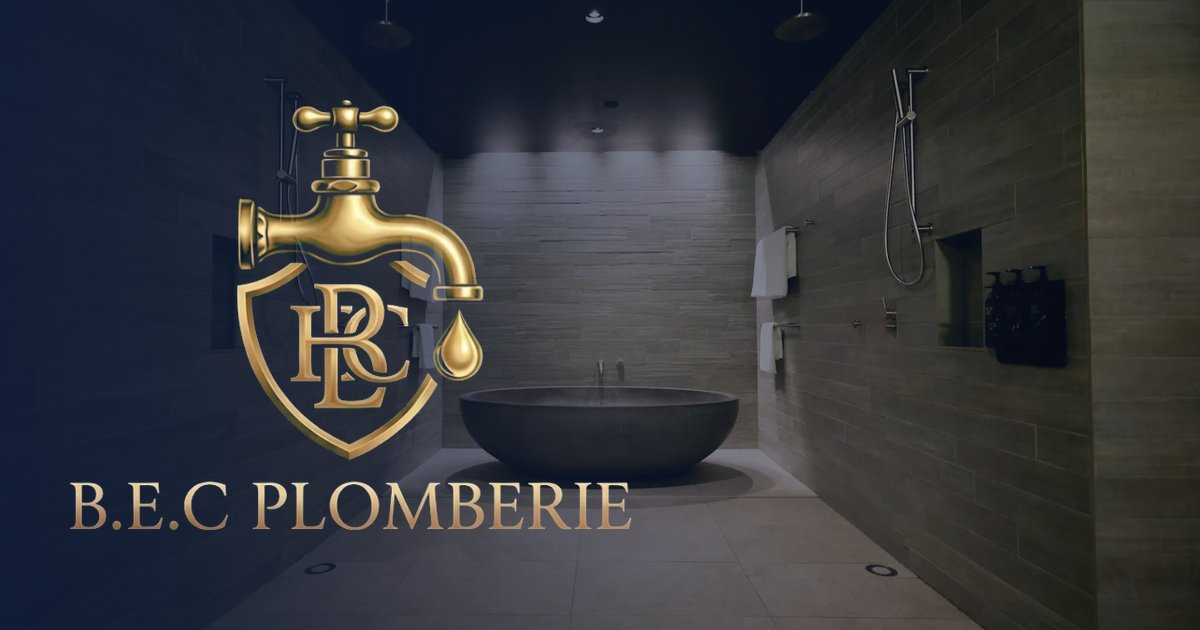
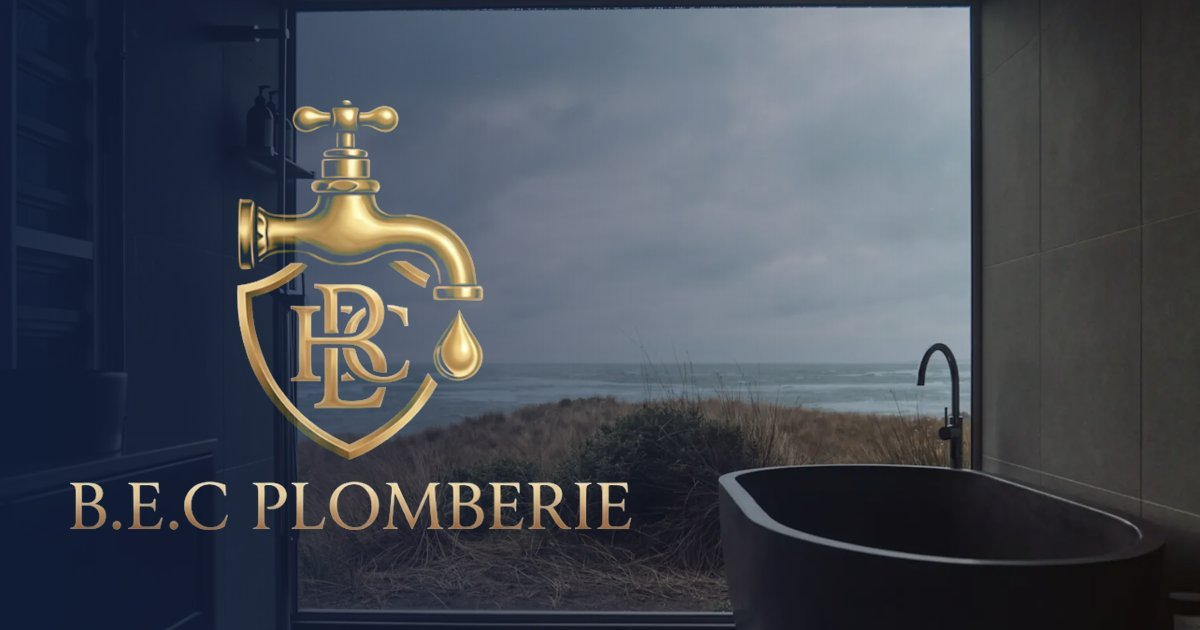
Hero plus design en plein écran, prestation haut de gamme
Nouvelle photo de salle de bain (pierre sombre, baignoire îlot), hero à la
hauteur de l'écran, texte d'intro retiré, carte « Installation haut de gamme »
ajoutée en tête des prestations (FR/EN).

Claude-Session: https://claude.ai/code/session_01Gu47y4bVu5wzDqTyW9pXca

diff --git a/index.html b/index.html
@@ -50,6 +50,7 @@
     "@type": "OfferCatalog",
     "name": "Prestations",
     "itemListElement": [
+      { "@type": "Offer", "itemOffered": { "@type": "Service", "name": "Installation haut de gamme : douches, toilettes, salles de bain complètes" } },
       { "@type": "Offer", "itemOffered": { "@type": "Service", "name": "Dépannage et travaux de plomberie" } },
       { "@type": "Offer", "itemOffered": { "@type": "Service", "name": "Débouchage de canalisations" } },
       { "@type": "Offer", "itemOffered": { "@type": "Service", "name": "Remplacement de chauffe-eau et cumulus" } },
@@ -89,7 +90,6 @@
     <div class="wrap hero-grid">
       <div class="hero-text">
         <h1 id="titre">Votre plombier <span>à Villeneuve-Loubet</span></h1>
-        <p class="lead">Dépannage plomberie, débouchage, remplacement de chauffe-eau et cumulus, pose et entretien de climatisation. Un artisan ponctuel, soigneux et de bon conseil.</p>
         <div class="hero-actions">
           <a class="btn btn-call" href="tel:+33749656885">
             <svg viewBox="0 0 24 24" fill="currentColor" aria-hidden="true"><path d="M6.6 10.8a15.1 15.1 0 0 0 6.6 6.6l2.2-2.2c.3-.3.7-.4 1-.2 1.1.4 2.3.6 3.6.6.6 0 1 .4 1 1V20c0 .6-.4 1-1 1A17 17 0 0 1 3 4c0-.6.4-1 1-1h3.5c.6 0 1 .4 1 1 0 1.3.2 2.5.6 3.6.1.3 0 .7-.2 1l-2.3 2.2z"/></svg>
@@ -114,6 +114,14 @@
         <p class="lead">Particuliers et professionnels, à Villeneuve-Loubet et aux alentours.</p>
       </div>
       <div class="services">
+        <article class="service service-featured">
+          <svg class="service-icon" viewBox="0 0 48 48" fill="none" stroke="currentColor" stroke-width="3" stroke-linecap="round" stroke-linejoin="round" aria-hidden="true"><path d="M4 26h40v4a10 10 0 0 1-10 10H14A10 10 0 0 1 4 30z"/><path d="M10 26V10a4 4 0 0 1 8 0"/><path d="M18 14l-2 3"/><path d="M14 40l-2 4M34 40l2 4"/></svg>
+          <div>
+            <p class="service-tag">Haut de gamme</p>
+            <h3>Installation de salles de bain</h3>
+            <p>Douches à l'italienne, toilettes suspendues, salles de bain complètes : de la plomberie à la pose des équipements, une installation soignée et durable.</p>
+          </div>
+        </article>
         <article class="service">
           <svg class="service-icon" viewBox="0 0 48 48" fill="none" stroke="currentColor" stroke-width="3" stroke-linecap="round" stroke-linejoin="round" aria-hidden="true"><path d="M6 14h14v8h14a6 6 0 0 1 6 6v6"/><path d="M6 10v8"/><path d="M36 40h8"/><path d="M40 34v6"/></svg>
           <h3>Plomberie</h3>

diff --git a/en/index.html b/en/index.html
@@ -50,6 +50,7 @@
     "@type": "OfferCatalog",
     "name": "Services",
     "itemListElement": [
+      { "@type": "Offer", "itemOffered": { "@type": "Service", "name": "High-end installation: showers, toilets, complete bathrooms" } },
       { "@type": "Offer", "itemOffered": { "@type": "Service", "name": "Plumbing repairs and installation" } },
       { "@type": "Offer", "itemOffered": { "@type": "Service", "name": "Drain unblocking" } },
       { "@type": "Offer", "itemOffered": { "@type": "Service", "name": "Water heater replacement" } },
@@ -89,7 +90,6 @@
     <div class="wrap hero-grid">
       <div class="hero-text">
         <h1 id="titre">Your plumber <span>in Villeneuve-Loubet</span></h1>
-        <p class="lead">Plumbing repairs, drain unblocking, water heater replacement, air conditioning installation and servicing. A punctual, careful local tradesman who gives sound advice.</p>
         <div class="hero-actions">
           <a class="btn btn-call" href="tel:+33749656885">
             <svg viewBox="0 0 24 24" fill="currentColor" aria-hidden="true"><path d="M6.6 10.8a15.1 15.1 0 0 0 6.6 6.6l2.2-2.2c.3-.3.7-.4 1-.2 1.1.4 2.3.6 3.6.6.6 0 1 .4 1 1V20c0 .6-.4 1-1 1A17 17 0 0 1 3 4c0-.6.4-1 1-1h3.5c.6 0 1 .4 1 1 0 1.3.2 2.5.6 3.6.1.3 0 .7-.2 1l-2.3 2.2z"/></svg>
@@ -114,6 +114,14 @@
         <p class="lead">Homes and businesses in Villeneuve-Loubet and the surrounding area.</p>
       </div>
       <div class="services">
+        <article class="service service-featured">
+          <svg class="service-icon" viewBox="0 0 48 48" fill="none" stroke="currentColor" stroke-width="3" stroke-linecap="round" stroke-linejoin="round" aria-hidden="true"><path d="M4 26h40v4a10 10 0 0 1-10 10H14A10 10 0 0 1 4 30z"/><path d="M10 26V10a4 4 0 0 1 8 0"/><path d="M18 14l-2 3"/><path d="M14 40l-2 4M34 40l2 4"/></svg>
+          <div>
+            <p class="service-tag">High-end</p>
+            <h3>Bathroom installation</h3>
+            <p>Walk-in showers, wall-hung toilets, complete bathrooms: from the plumbing to fitting the fixtures, careful, long-lasting work.</p>
+          </div>
+        </article>
         <article class="service">
           <svg class="service-icon" viewBox="0 0 48 48" fill="none" stroke="currentColor" stroke-width="3" stroke-linecap="round" stroke-linejoin="round" aria-hidden="true"><path d="M6 14h14v8h14a6 6 0 0 1 6 6v6"/><path d="M6 10v8"/><path d="M36 40h8"/><path d="M40 34v6"/></svg>
           <h3>Plumbing</h3>

diff --git a/styles.css b/styles.css
@@ -133,10 +133,14 @@ body::before {
       url("/img/hero-salle-de-bain.webp");
   }
 }
-.hero-grid { display: grid; padding-block: clamp(3rem, 9vw, 6rem); }
+/* Hero plein écran : hauteur de l'écran moins l'en-tête (et la barre d'appel sur mobile) */
+.hero { display: grid; align-items: center; min-height: calc(100vh - 4rem - 1px - 4.5rem); min-height: calc(100svh - 4rem - 1px - 4.5rem - env(safe-area-inset-bottom, 0px)); }
+@media (min-width: 900px) { .hero { min-height: calc(100vh - 4rem - 1px); min-height: calc(100svh - 4rem - 1px); } }
+.hero-grid { display: grid; padding-block: clamp(2.5rem, 7vw, 5rem); width: 100%; }
 .hero-text { max-width: 40rem; }
 .hero h1 { font-size: clamp(2.6rem, 8vw, 4.6rem); font-weight: 800; text-transform: uppercase; letter-spacing: .005em; color: #fff; }
 .hero h1 span { color: var(--gold-light); display: block; }
+.hero h1 + .hero-actions { margin-top: 2rem; }
 .hero .lead { margin-top: 1rem; max-width: 34rem; color: #e9ecf3; }
 .hero-actions { display: flex; flex-wrap: wrap; gap: .75rem; margin-top: 1.75rem; }
 .btn-light { color: #fff; }
@@ -186,6 +190,12 @@ body::before {
   padding: 1.5rem; display: grid; gap: .6rem; align-content: start;
 }
 .service-icon { width: 2.75rem; height: 2.75rem; color: var(--sky); }
+.service-featured { grid-column: 1 / -1; background: var(--navy); color: #fff; border-color: var(--navy); border-top-color: var(--gold); }
+.service-featured .service-icon { color: var(--gold); width: 3.25rem; height: 3.25rem; }
+.service.service-featured p { color: #d6dbe6; }
+.service-featured h3 { font-size: 1.75rem; }
+.service-featured .service-tag { font-family: var(--font-display); font-weight: 600; text-transform: uppercase; letter-spacing: .12em; color: var(--gold-light); margin-bottom: .2rem; }
+@media (min-width: 640px) { .service-featured { grid-template-columns: auto 1fr; gap: 1.25rem; align-items: start; padding: 1.75rem 2rem; } }
 .service p { color: var(--muted); }
 
 /* Atouts */

diff --git a/CLAUDE.md b/CLAUDE.md
@@ -19,7 +19,7 @@ Fiche Google : 5,0 / 5, 23 avis (novembre 2026). Points forts cités dans les av
 - Mentions légales, Politique de confidentialité, 404
 
 ## Contenus
-- 4 services : Plomberie, Débouchage, Chauffe-eau et cumulus, Climatisation. Liste détaillée des prestations [À CONFIRMER avec le client].
+- Prestation mise en avant (carte bleu nuit pleine largeur) : « Installation haut de gamme » de salles de bain (douches à l'italienne, toilettes suspendues, salles de bain complètes). Puis 4 services : Plomberie, Débouchage, Chauffe-eau et cumulus, Climatisation. Liste détaillée des prestations [À CONFIRMER avec le client].
 - Avis : 6 extraits réels de la fiche Google, signés prénom + initiale (Teo D., M. B., Florian G., Sagdana, Léo F., Anis). Ne pas modifier le sens.
 - Ne rien inventer : pas de certifications, pas de prix, pas d'historique, pas de « 24h/24 ».
 - Placeholders à remplacer : SIRET, clé Web3Forms.
@@ -40,7 +40,7 @@ Pas d'iframe Google Maps (cookies) : lien « Itinéraire » vers Google Maps à 
 Couleurs du logo client : bleu nuit (#101D3B) et doré (#C9A66B, doré foncé #7F5F26 pour le texte sur blanc), blanc pour respirer. **Aucun orange.** En-tête et bandeau contact bleu nuit, boutons d'appel dorés à texte bleu nuit. Titres Barlow Condensed (majuscules), texte Barlow, nom de marque en Cinzel. Mobile-first, barre d'appel fixe en bas sur mobile. Thème sombre automatique.
 Logo fourni par le client (robinet doré + écusson « BEC » sur fond bleu nuit) : `logo/logo-bec-plomberie.png` (original recadré), `logo-bec-plomberie-transparent.png`, `logo-bec-embleme.webp/png` (robinet + écusson détourés, utilisés dans l'en-tête avec « B.E.C / Plomberie » en texte), `logo-icone.png` + `apple-touch-icon.png` + `favicon.svg`. Image de partage `og-image.jpg` (1200×630).
 Photos : 7 photos de la fiche Google dans `img/`. Vérifier avec le client qu'elles sont bien à lui.
-Hero : salle de bain sombre et chic, baignoire îlot en pierre sous éclairage chaud (photo Unsplash vlLByisESho de Fidel Fernando, licence Unsplash gratuite, choisie d après la référence envoyée par le client) : img/hero-salle-de-bain.webp 1800×1200 (≥700px), img/hero-salle-de-bain-mobile.webp 800×1200, voile bleu nuit. Nom écrit « B.E.C » (sans point final) partout. Boutons : « Devis gratuit » / « Free quote ».
+Hero plein écran (hauteur de l'écran sur ordinateur et téléphone), sans texte d'intro sous le titre : salle de bain en pierre sombre, baignoire îlot anthracite face à une baie vitrée sur la mer (photo Unsplash iD1GObFLsOs de Rod Long, licence Unsplash gratuite, choisie le 26/11 pour coller à la référence du client) : img/hero-salle-de-bain.webp 1800×1200 (≥700px), img/hero-salle-de-bain-mobile.webp 800×1200, voile bleu nuit. Nom écrit « B.E.C » (sans point final) partout. Boutons : « Devis gratuit » / « Free quote ».
 
 ## Règles
 - Textes en français
